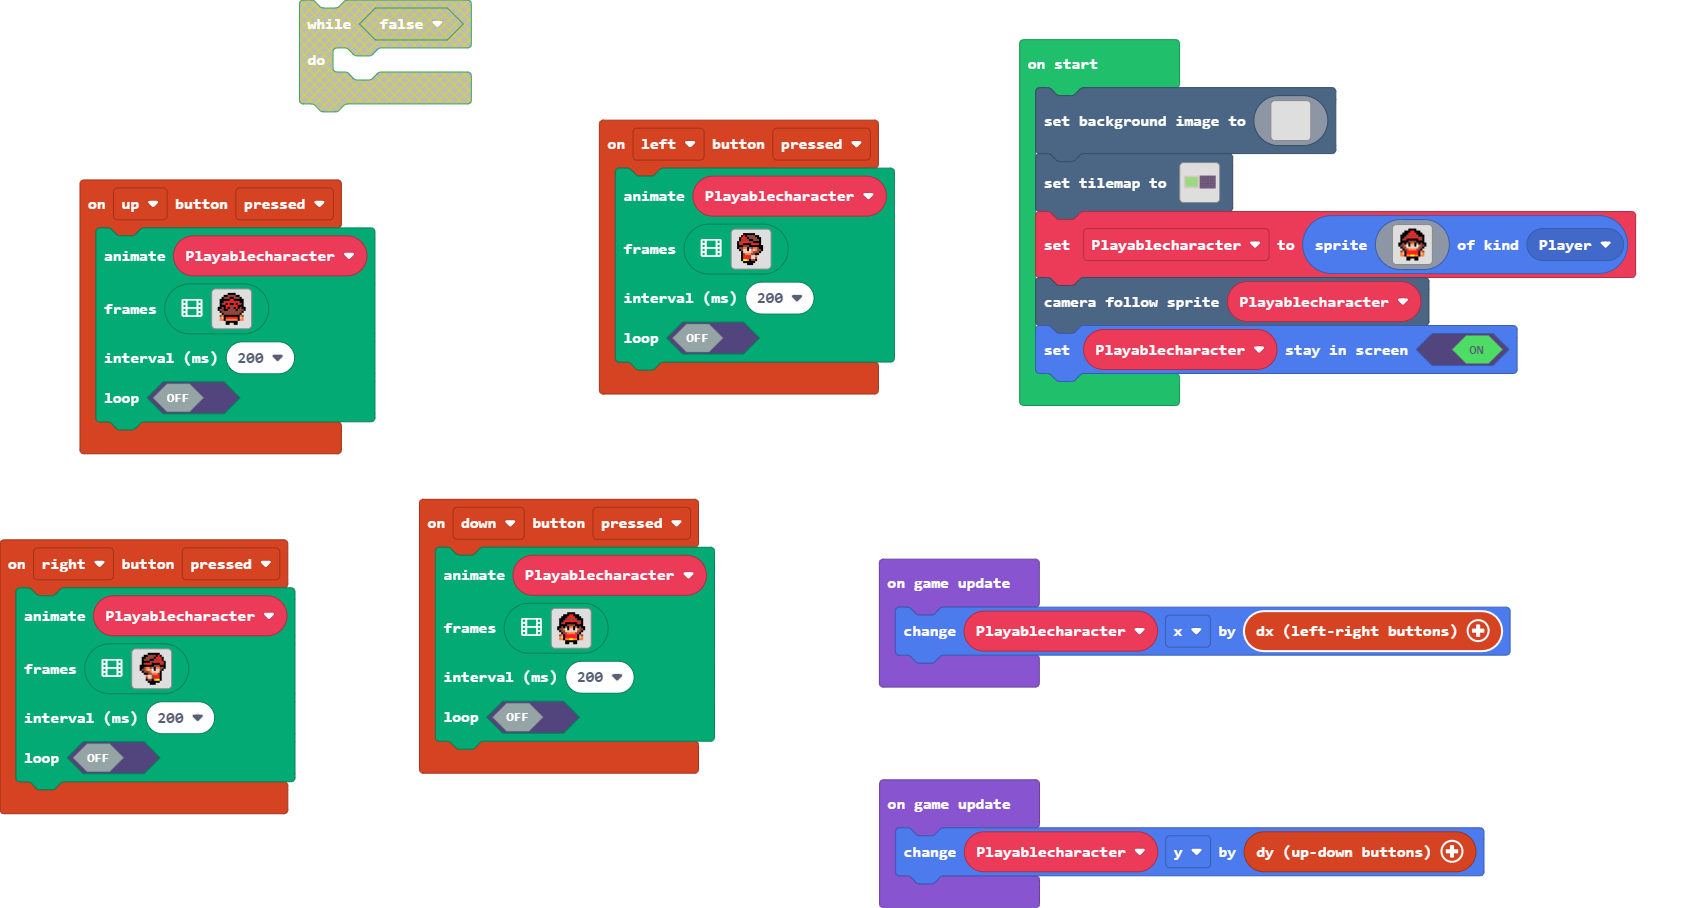
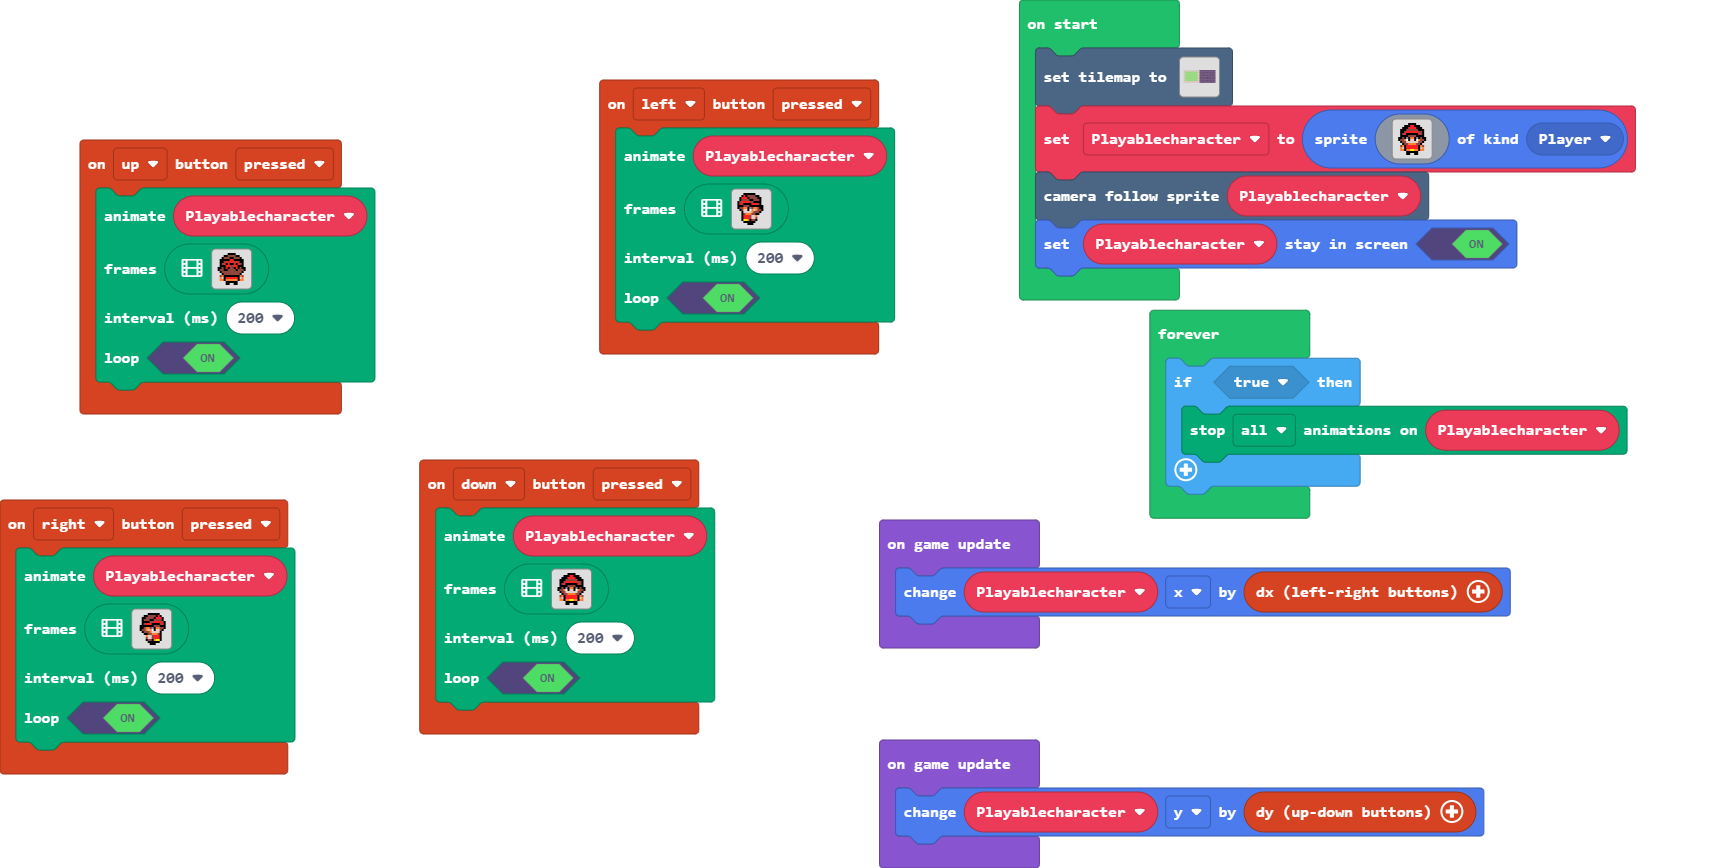
stuff

diff --git a/main.ts b/main.ts
@@ -71,7 +71,7 @@ controller.up.onEvent(ControllerButtonEvent.Pressed, function () {
         . . . . . . . . . f f f . . . . 
         `],
     200,
-    false
+    true
     )
 })
 controller.left.onEvent(ControllerButtonEvent.Pressed, function () {
@@ -147,7 +147,7 @@ controller.left.onEvent(ControllerButtonEvent.Pressed, function () {
         . . . f f f . . . f f . . . . . 
         `],
     200,
-    false
+    true
     )
 })
 controller.right.onEvent(ControllerButtonEvent.Pressed, function () {
@@ -223,7 +223,7 @@ controller.right.onEvent(ControllerButtonEvent.Pressed, function () {
         . . . . . f f . . . f f f . . . 
         `],
     200,
-    false
+    true
     )
 })
 controller.down.onEvent(ControllerButtonEvent.Pressed, function () {
@@ -299,132 +299,10 @@ controller.down.onEvent(ControllerButtonEvent.Pressed, function () {
         . . . . . . . . . f f f . . . . 
         `],
     200,
-    false
+    true
     )
 })
 let Playablecharacter: Sprite = null
-scene.setBackgroundImage(img`
-    ................................................................................................................................................................
-    ................................................................................................................................................................
-    ................................................................................................................................................................
-    ................................................................................................................................................................
-    ................................................................................................................................................................
-    ................................................................................................................................................................
-    ................................................................................................................................................................
-    ................................................................................................................................................................
-    ................................................................................................................................................................
-    ................................................................................................................................................................
-    ................................................................................................................................................................
-    ................................................................................................................................................................
-    ................................................................................................................................................................
-    ................................................................................................................................................................
-    ................................................................................................................................................................
-    ................................................................................................................................................................
-    ................................................................................................................................................................
-    ................................................................................................................................................................
-    ................................................................................................................................................................
-    ................................................................................................................................................................
-    ................................................................................................................................................................
-    ................................................................................................................................................................
-    ................................................................................................................................................................
-    ................................................................................................................................................................
-    ................................................................................................................................................................
-    ................................................................................................................................................................
-    ................................................................................................................................................................
-    ................................................................................................................................................................
-    ................................................................................................................................................................
-    ................................................................................................................................................................
-    ................................................................................................................................................................
-    ................................................................................................................................................................
-    ................................................................................................................................................................
-    ................................................................................................................................................................
-    ................................................................................................................................................................
-    ................................................................................................................................................................
-    ................................................................................................................................................................
-    ................................................................................................................................................................
-    ................................................................................................................................................................
-    ................................................................................................................................................................
-    ................................................................................................................................................................
-    ................................................................................................................................................................
-    ................................................................................................................................................................
-    ................................................................................................................................................................
-    ................................................................................................................................................................
-    ................................................................................................................................................................
-    ................................................................................................................................................................
-    ................................................................................................................................................................
-    ................................................................................................................................................................
-    ................................................................................................................................................................
-    ................................................................................................................................................................
-    ................................................................................................................................................................
-    ................................................................................................................................................................
-    ................................................................................................................................................................
-    ................................................................................................................................................................
-    ................................................................................................................................................................
-    ................................................................................................................................................................
-    ................................................................................................................................................................
-    ................................................................................................................................................................
-    ................................................................................................................................................................
-    ................................................................................................................................................................
-    ................................................................................................................................................................
-    ................................................................................................................................................................
-    ................................................................................................................................................................
-    ................................................................................................................................................................
-    ................................................................................................................................................................
-    ................................................................................................................................................................
-    ................................................................................................................................................................
-    ................................................................................................................................................................
-    ................................................................................................................................................................
-    ................................................................................................................................................................
-    ................................................................................................................................................................
-    ................................................................................................................................................................
-    ................................................................................................................................................................
-    ................................................................................................................................................................
-    ................................................................................................................................................................
-    ................................................................................................................................................................
-    ................................................................................................................................................................
-    ................................................................................................................................................................
-    ................................................................................................................................................................
-    ................................................................................................................................................................
-    ................................................................................................................................................................
-    ................................................................................................................................................................
-    ................................................................................................................................................................
-    ................................................................................................................................................................
-    ................................................................................................................................................................
-    ................................................................................................................................................................
-    ................................................................................................................................................................
-    ................................................................................................................................................................
-    ................................................................................................................................................................
-    ................................................................................................................................................................
-    ................................................................................................................................................................
-    ................................................................................................................................................................
-    ................................................................................................................................................................
-    ................................................................................................................................................................
-    ................................................................................................................................................................
-    ................................................................................................................................................................
-    ................................................................................................................................................................
-    ................................................................................................................................................................
-    ................................................................................................................................................................
-    ................................................................................................................................................................
-    ................................................................................................................................................................
-    ................................................................................................................................................................
-    ................................................................................................................................................................
-    ................................................................................................................................................................
-    ................................................................................................................................................................
-    ................................................................................................................................................................
-    ................................................................................................................................................................
-    ................................................................................................................................................................
-    ................................................................................................................................................................
-    ................................................................................................................................................................
-    ................................................................................................................................................................
-    ................................................................................................................................................................
-    ................................................................................................................................................................
-    ................................................................................................................................................................
-    ................................................................................................................................................................
-    ................................................................................................................................................................
-    ................................................................................................................................................................
-    ................................................................................................................................................................
-    ................................................................................................................................................................
-    `)
 tiles.setTilemap(tilemap`level2`)
 Playablecharacter = sprites.create(img`
     . . . . . . f f f f . . . . . . 
@@ -451,4 +329,9 @@ game.onUpdate(function () {
 })
 game.onUpdate(function () {
     Playablecharacter.y += controller.dy()
+})
+forever(function () {
+    if (true) {
+        animation.stopAnimation(animation.AnimationTypes.All, Playablecharacter)
+    }
 })

diff --git a/tilemap.g.ts b/tilemap.g.ts
@@ -141,6 +141,25 @@ namespace myTiles {
 . . . . . . . . . . . . . . . . . . . . 
 . . . . . . . . . . . . . . . . . . . . 
 `, [myTiles.transparency16,sprites.castle.tileGrass2,sprites.dungeon.floorLight0,sprites.dungeon.darkGroundSouthEast1], TileScale.Sixteen);
+            case "level3":
+            case "level3":return tiles.createTilemap(hex`1000100000000000000000000000000000000000000000000000000000000000000000000000000000000000000000000000000000000000000000000000000000000000000000000000000000000000000000000000000000000000000000000000000000000000000000000000000000000000000000000000000000000000000000000000000000000000000000000000000000000000000000000000000000000000000000000000000000000000000000000000000000000000000000000000000000000000000000000000000000000000000000000000000000000000000000000000000000000000000000000000000000000000000000000000000000000000`, img`
+. . . . . . . . . . . . . . . . 
+. . . . . . . . . . . . . . . . 
+. . . . . . . . . . . . . . . . 
+. . . . . . . . . . . . . . . . 
+. . . . . . . . . . . . . . . . 
+. . . . . . . . . . . . . . . . 
+. . . . . . . . . . . . . . . . 
+. . . . . . . . . . . . . . . . 
+. . . . . . . . . . . . . . . . 
+. . . . . . . . . . . . . . . . 
+. . . . . . . . . . . . . . . . 
+. . . . . . . . . . . . . . . . 
+. . . . . . . . . . . . . . . . 
+. . . . . . . . . . . . . . . . 
+. . . . . . . . . . . . . . . . 
+. . . . . . . . . . . . . . . . 
+`, [myTiles.transparency16], TileScale.Sixteen);
         }
         return null;
     })
